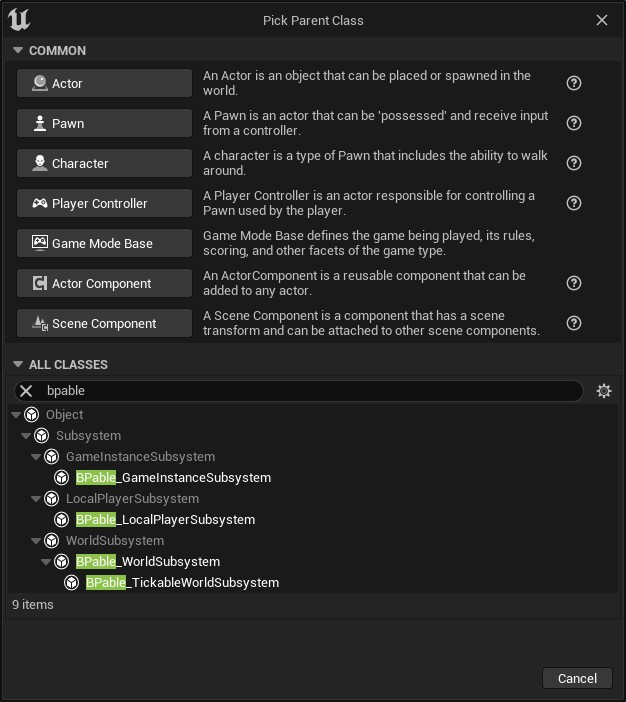
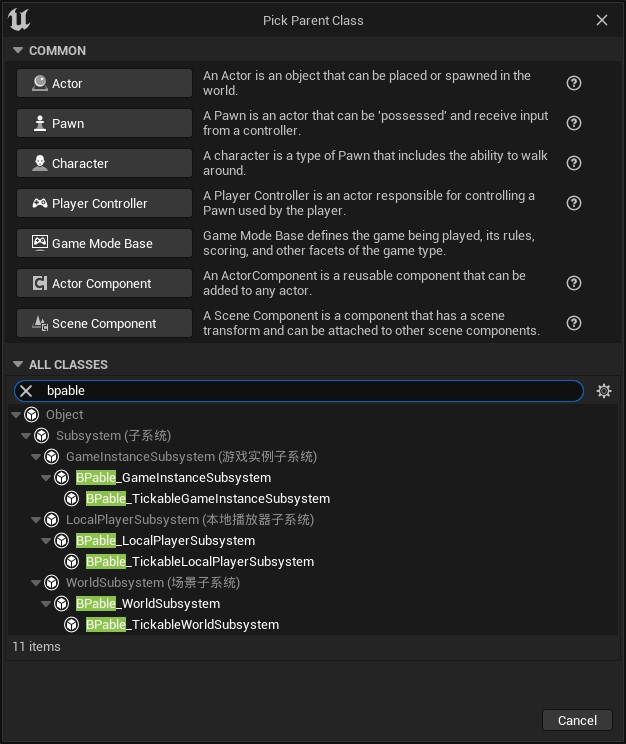
Edit v0.8 docs en

diff --git a/docs/English Document/BPableSubsystem_en.md b/docs/English Document/BPableSubsystem_en.md
@@ -8,13 +8,17 @@ sort: 1
 
 ## The Profile of Plugin
 
-This plugin provides four subsystems that can be inherited from blueprints：
+This plugin provides six subsystems that can be inherited from blueprints：
 
 BPable_GameInstanceSubsystem
 
 BPable_LocalPlayerSubsystem
 
 BPable_WorldSubsystem
+
+BPable_TickableGameInstanceSubsystem
+
+BPable_TickableLocalPlayerSubsystem
 
 BPable_TickableWorldSubsystem
 
@@ -69,6 +73,8 @@ In my Blueprint on the left side of the Blueprint class edit window click to ove
   | Name                  | Graphic                                                      | Explain                                                      |
   | --------------------- | ------------------------------------------------------------ | ------------------------------------------------------------ |
   | Initialize            | ![](../resource/BPableSubsystem/屏幕截图 2022-09-16 103614.jpg) | A event called after this subsystem created                  |
+  | WorldBeginPlay        | ![](../resource/BPableSubsystem/屏幕截图 2022-09-24 211903.jpg) | 此World开始执行BeginPlay时调用的事件                         |
+  | WorldBeginTearDown    | ![](../resource/BPableSubsystem/屏幕截图 2022-09-24 211913.jpg) | 此World开始执行TearDown时调用的事件                          |
   | Deinitialize          | ![](../resource/BPableSubsystem/屏幕截图 2022-09-16 103627.jpg) | A event called before this subsystem was destoryed           |
   | ShouldCreateSubsystem | ![](../resource/BPableSubsystem/屏幕截图 2022-09-16 103638.jpg) | A function called before this subsystem created<br/> the Implementation of it is not necessary<br/>If implement this function,return true to create this subsystem,return false not to create this subsystem |
 
@@ -93,6 +99,8 @@ In my Blueprint on the left side of the Blueprint class edit window click to ove
   | Name                  | Graphic                                                      | Explain                                                      |
   | --------------------- | ------------------------------------------------------------ | ------------------------------------------------------------ |
   | Initialize            | ![](../resource/BPableSubsystem/屏幕截图 2022-09-16 103614.jpg) | A event called after this subsystem created                  |
+  | WorldBeginPlay        | ![](../resource/BPableSubsystem/屏幕截图 2022-09-24 211903.jpg) | 此World开始执行BeginPlay时调用的事件                         |
+  | WorldBeginTearDown    | ![](../resource/BPableSubsystem/屏幕截图 2022-09-24 211913.jpg) | 此World开始执行TearDown时调用的事件                          |
   | Deinitialize          | ![](../resource/BPableSubsystem/屏幕截图 2022-09-16 103627.jpg) | A event called before this subsystem was destoryed           |
   | ShouldCreateSubsystem | ![](../resource/BPableSubsystem/屏幕截图 2022-09-16 103638.jpg) | A function called before this subsystem created<br/> the Implementation of it is not necessary<br/>If implement this function,return true to create this subsystem,return false not to create this subsystem |
 
@@ -122,11 +130,13 @@ In my Blueprint on the left side of the Blueprint class edit window click to ove
 
 ------
 
-### BPable_TickableWorldSubsystem
+
+
+### BPable_TickableGameInstanceSubsystem
 
 - Life Time
 
-  Inherited from UBPable_WorldSubsystem.Please view relevant contents in the parent class.
+  Inherited from UBPable_GameInstanceSubsystem. Please view relevant contents in the parent class.
 
 - Class defaults
 
@@ -137,7 +147,7 @@ In my Blueprint on the left side of the Blueprint class edit window click to ove
 
 - Interface
 
-  Some interfaces are Inherited from UBPable_WorldSubsystem.Please view relevant contents in the parent class.
+  Some interfaces are Inherited from UBPable_GameInstanceSubsystem. Please view relevant contents in the parent class.
 
   | Name | Graphic                                                      | Explain                                                |
   | ---- | ------------------------------------------------------------ | ------------------------------------------------------ |
@@ -145,9 +155,53 @@ In my Blueprint on the left side of the Blueprint class edit window click to ove
 
 - Function
 
+  Some functions are Inherited from UBPable_GameInstanceSubsystem.Please view relevant contents in the parent class.
+
   | Name                          | Graphic                                                      | Explain                                                 |
   | ----------------------------- | ------------------------------------------------------------ | ------------------------------------------------------- |
-  | SetTickEnabled                | ![](../resource/BPableSubsystem/屏幕截图 2022-09-16 103945.jpg) | To set whether to enable Tick                           |
-  | IsSubsystemTickEnabled        | ![](../resource/BPableSubsystem/屏幕截图 2022-09-16 104020.jpg) | The enabled value   when return to tick                 |
-  | SetTickableWhenPaused         | ![](../resource/BPableSubsystem/屏幕截图 2022-09-16 104001.jpg) | Set whether to tick when the game pause                 |
-  | IsSubsystemTickableWhenPaused | ![](../resource/BPableSubsystem/屏幕截图 2022-09-16 104035.jpg) | Report a value that wherher to tick when the game pause |
+  | SetTickEnabled                | ![](../resource/BPableSubsystem/屏幕截图 2022-09-24 212400.jpg) | To set whether to enable Tick                           |
+  | IsSubsystemTickEnabled        | ![](../resource/BPableSubsystem/屏幕截图 2022-09-24 212410.jpg) | The enabled value   when return to tick                 |
+  | SetTickableWhenPaused         | ![](../resource/BPableSubsystem/屏幕截图 2022-09-24 212419.jpg) | Set whether to tick when the game pause                 |
+  | IsSubsystemTickableWhenPaused | ![](../resource/BPableSubsystem/屏幕截图 2022-09-24 212428.jpg) | Report a value that wherher to tick when the game pause |
+
+### BPable_TickableLocalPlayerSubsystem
+
+- Life Time
+
+  Inherited from UBPable_LocalPlayerSubsystem. Please view relevant contents in the parent class.
+
+- Class defaults
+
+  Tick相关的类默认值和UBPable_TickableLocalPlayerSubsystem保持一致，请前往查看
+
+- Interface
+
+  Some interfaces are Inherited from UBPable_LocalPlayerSubsystem. Please view relevant contents in the parent class.
+
+  Tick相关的事件和UBPable_TickableLocalPlayerSubsystem保持一致，请前往查看
+
+- Function
+
+  Some functions are Inherited from UBPable_LocalPlayerSubsystem. Please view relevant contents in the parent class.
+
+  Tick相关的函数和UBPable_TickableLocalPlayerSubsystem保持一致，请前往查看
+
+### BPable_TickableWorldSubsystem
+
+- Life Time
+
+  Inherited from UBPable_WorldSubsystem. Please view relevant contents in the parent class.
+
+- Class defaults
+
+  Tick相关的类默认值和BPable_TickableWorldSubsystem保持一致，请前往查看
+
+- Interface
+
+  Some interfaces are Inherited from UBPable_WorldSubsystem. Please view relevant contents in the parent class.
+
+  Tick相关的事件和BPable_TickableWorldSubsystem保持一致，请前往查看
+
+- Function
+
+  Tick相关的函数和BPable_TickableWorldSubsystem保持一致，请前往查看
